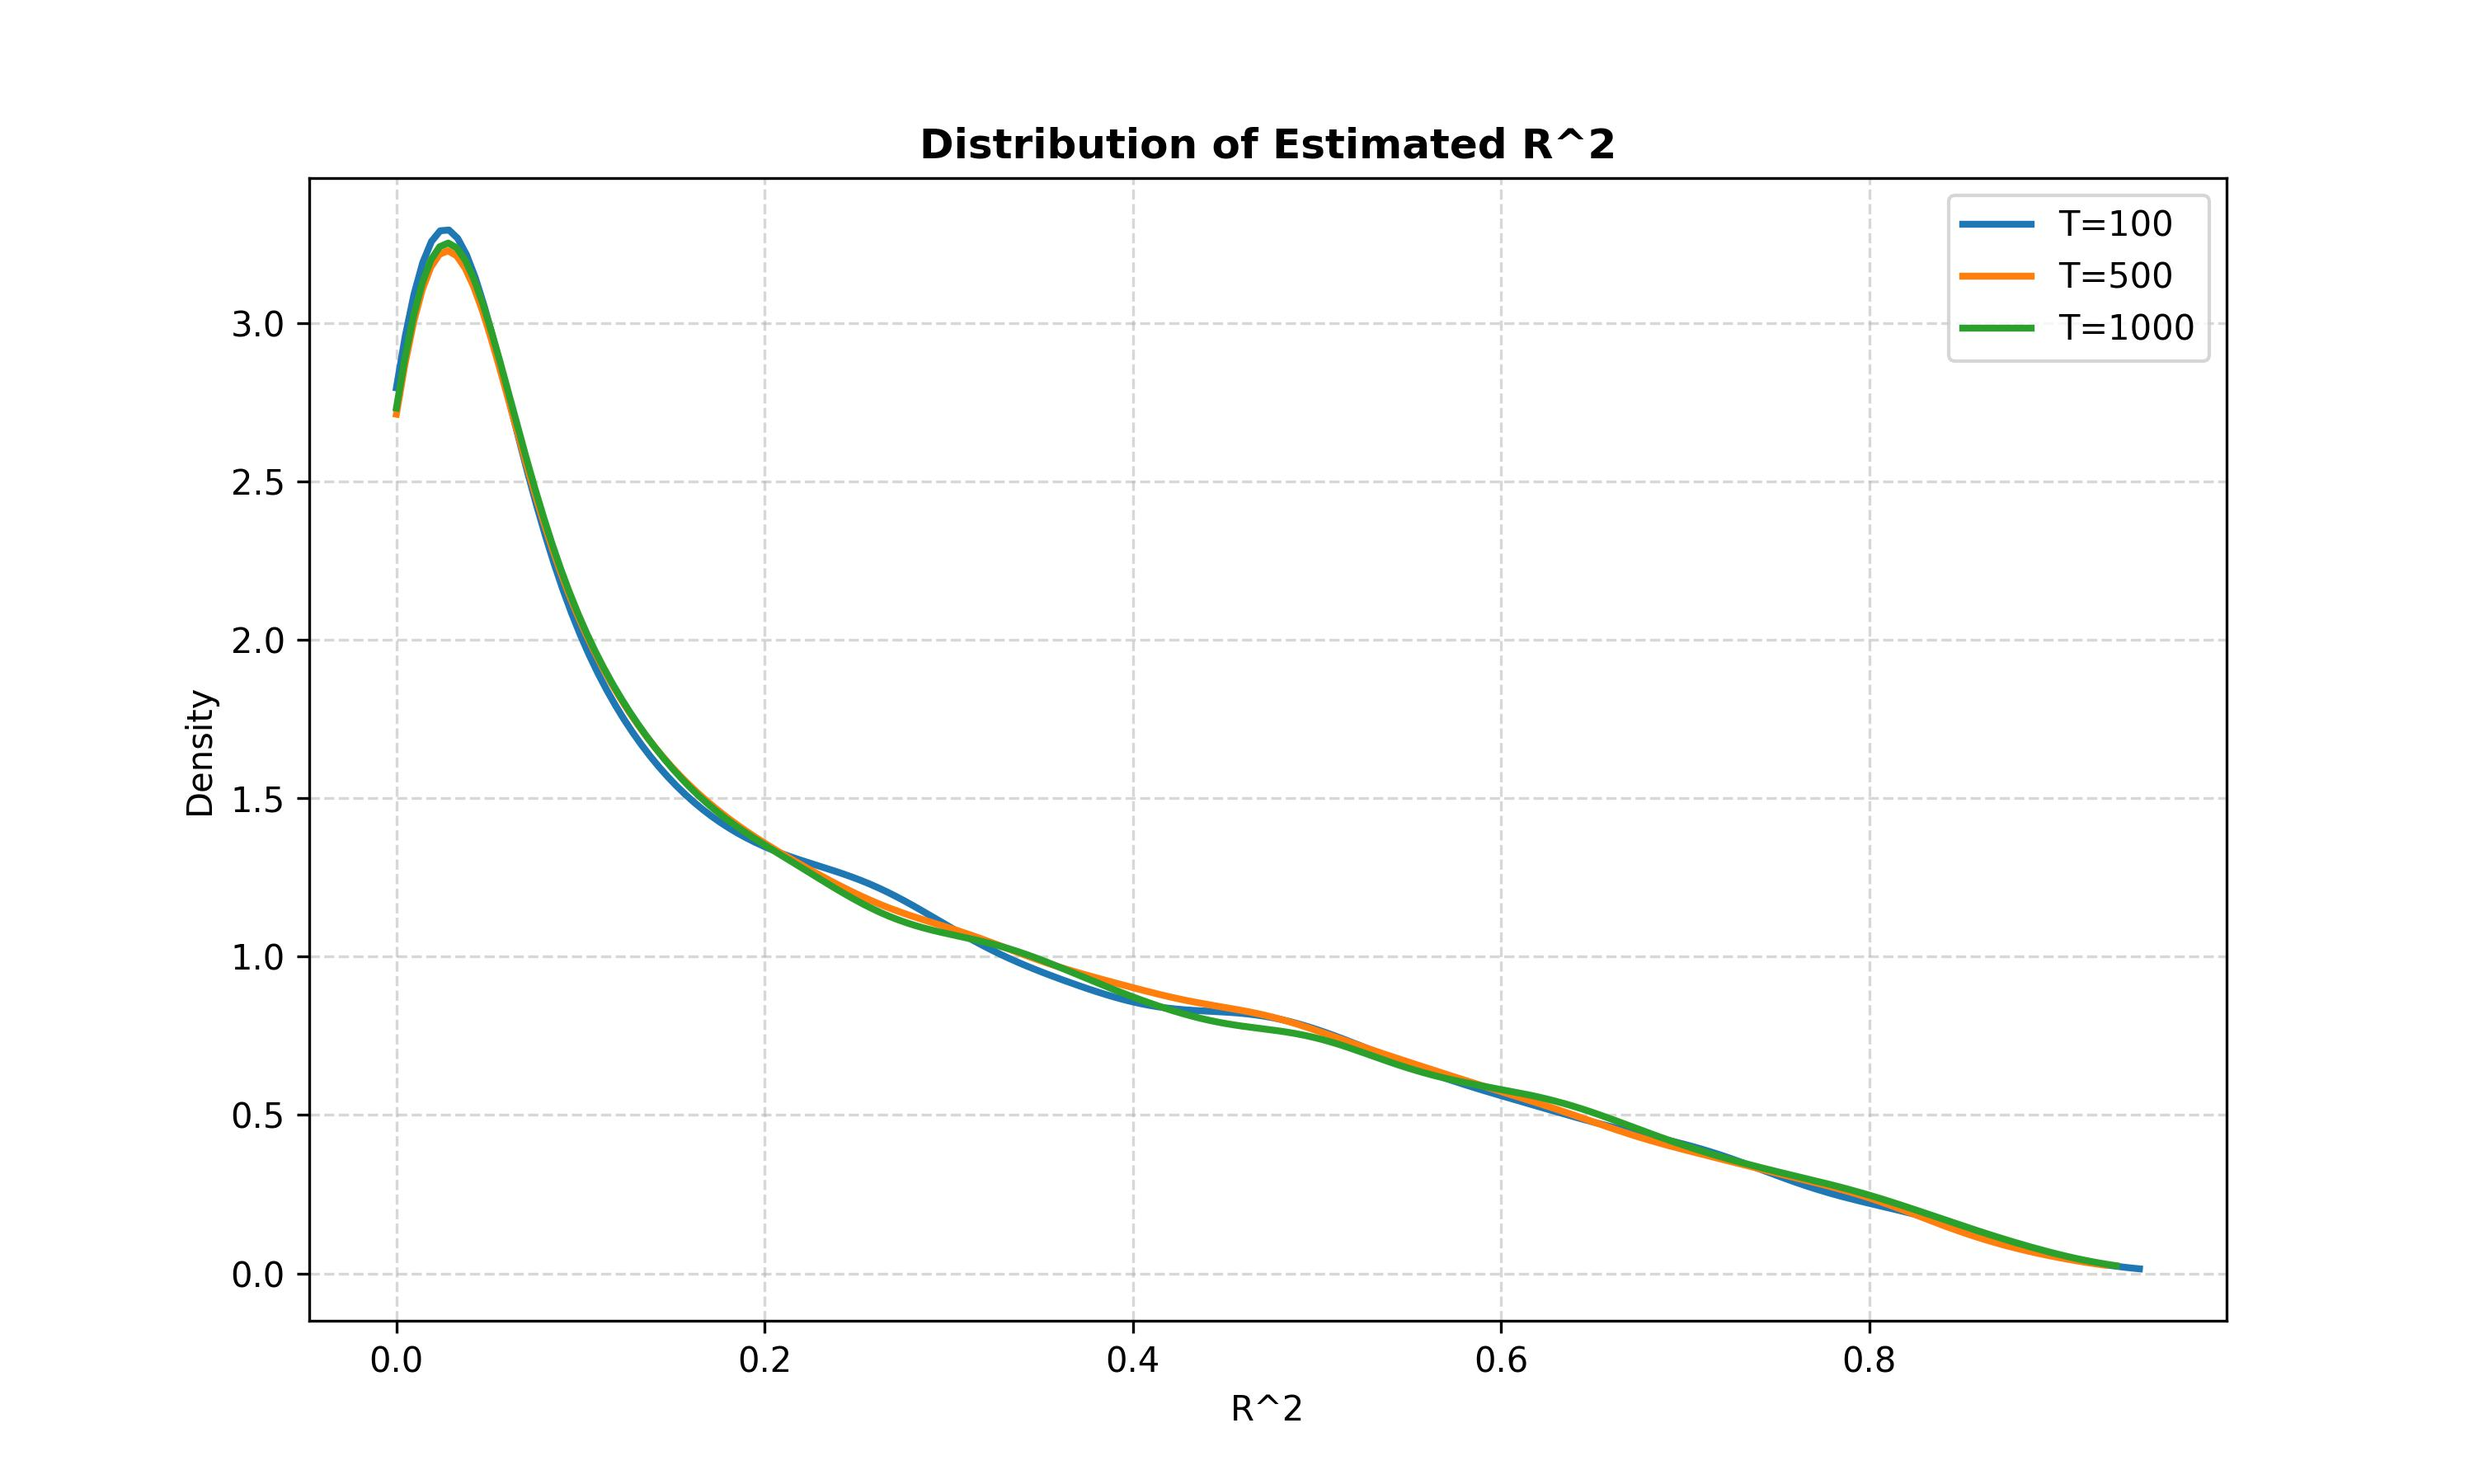
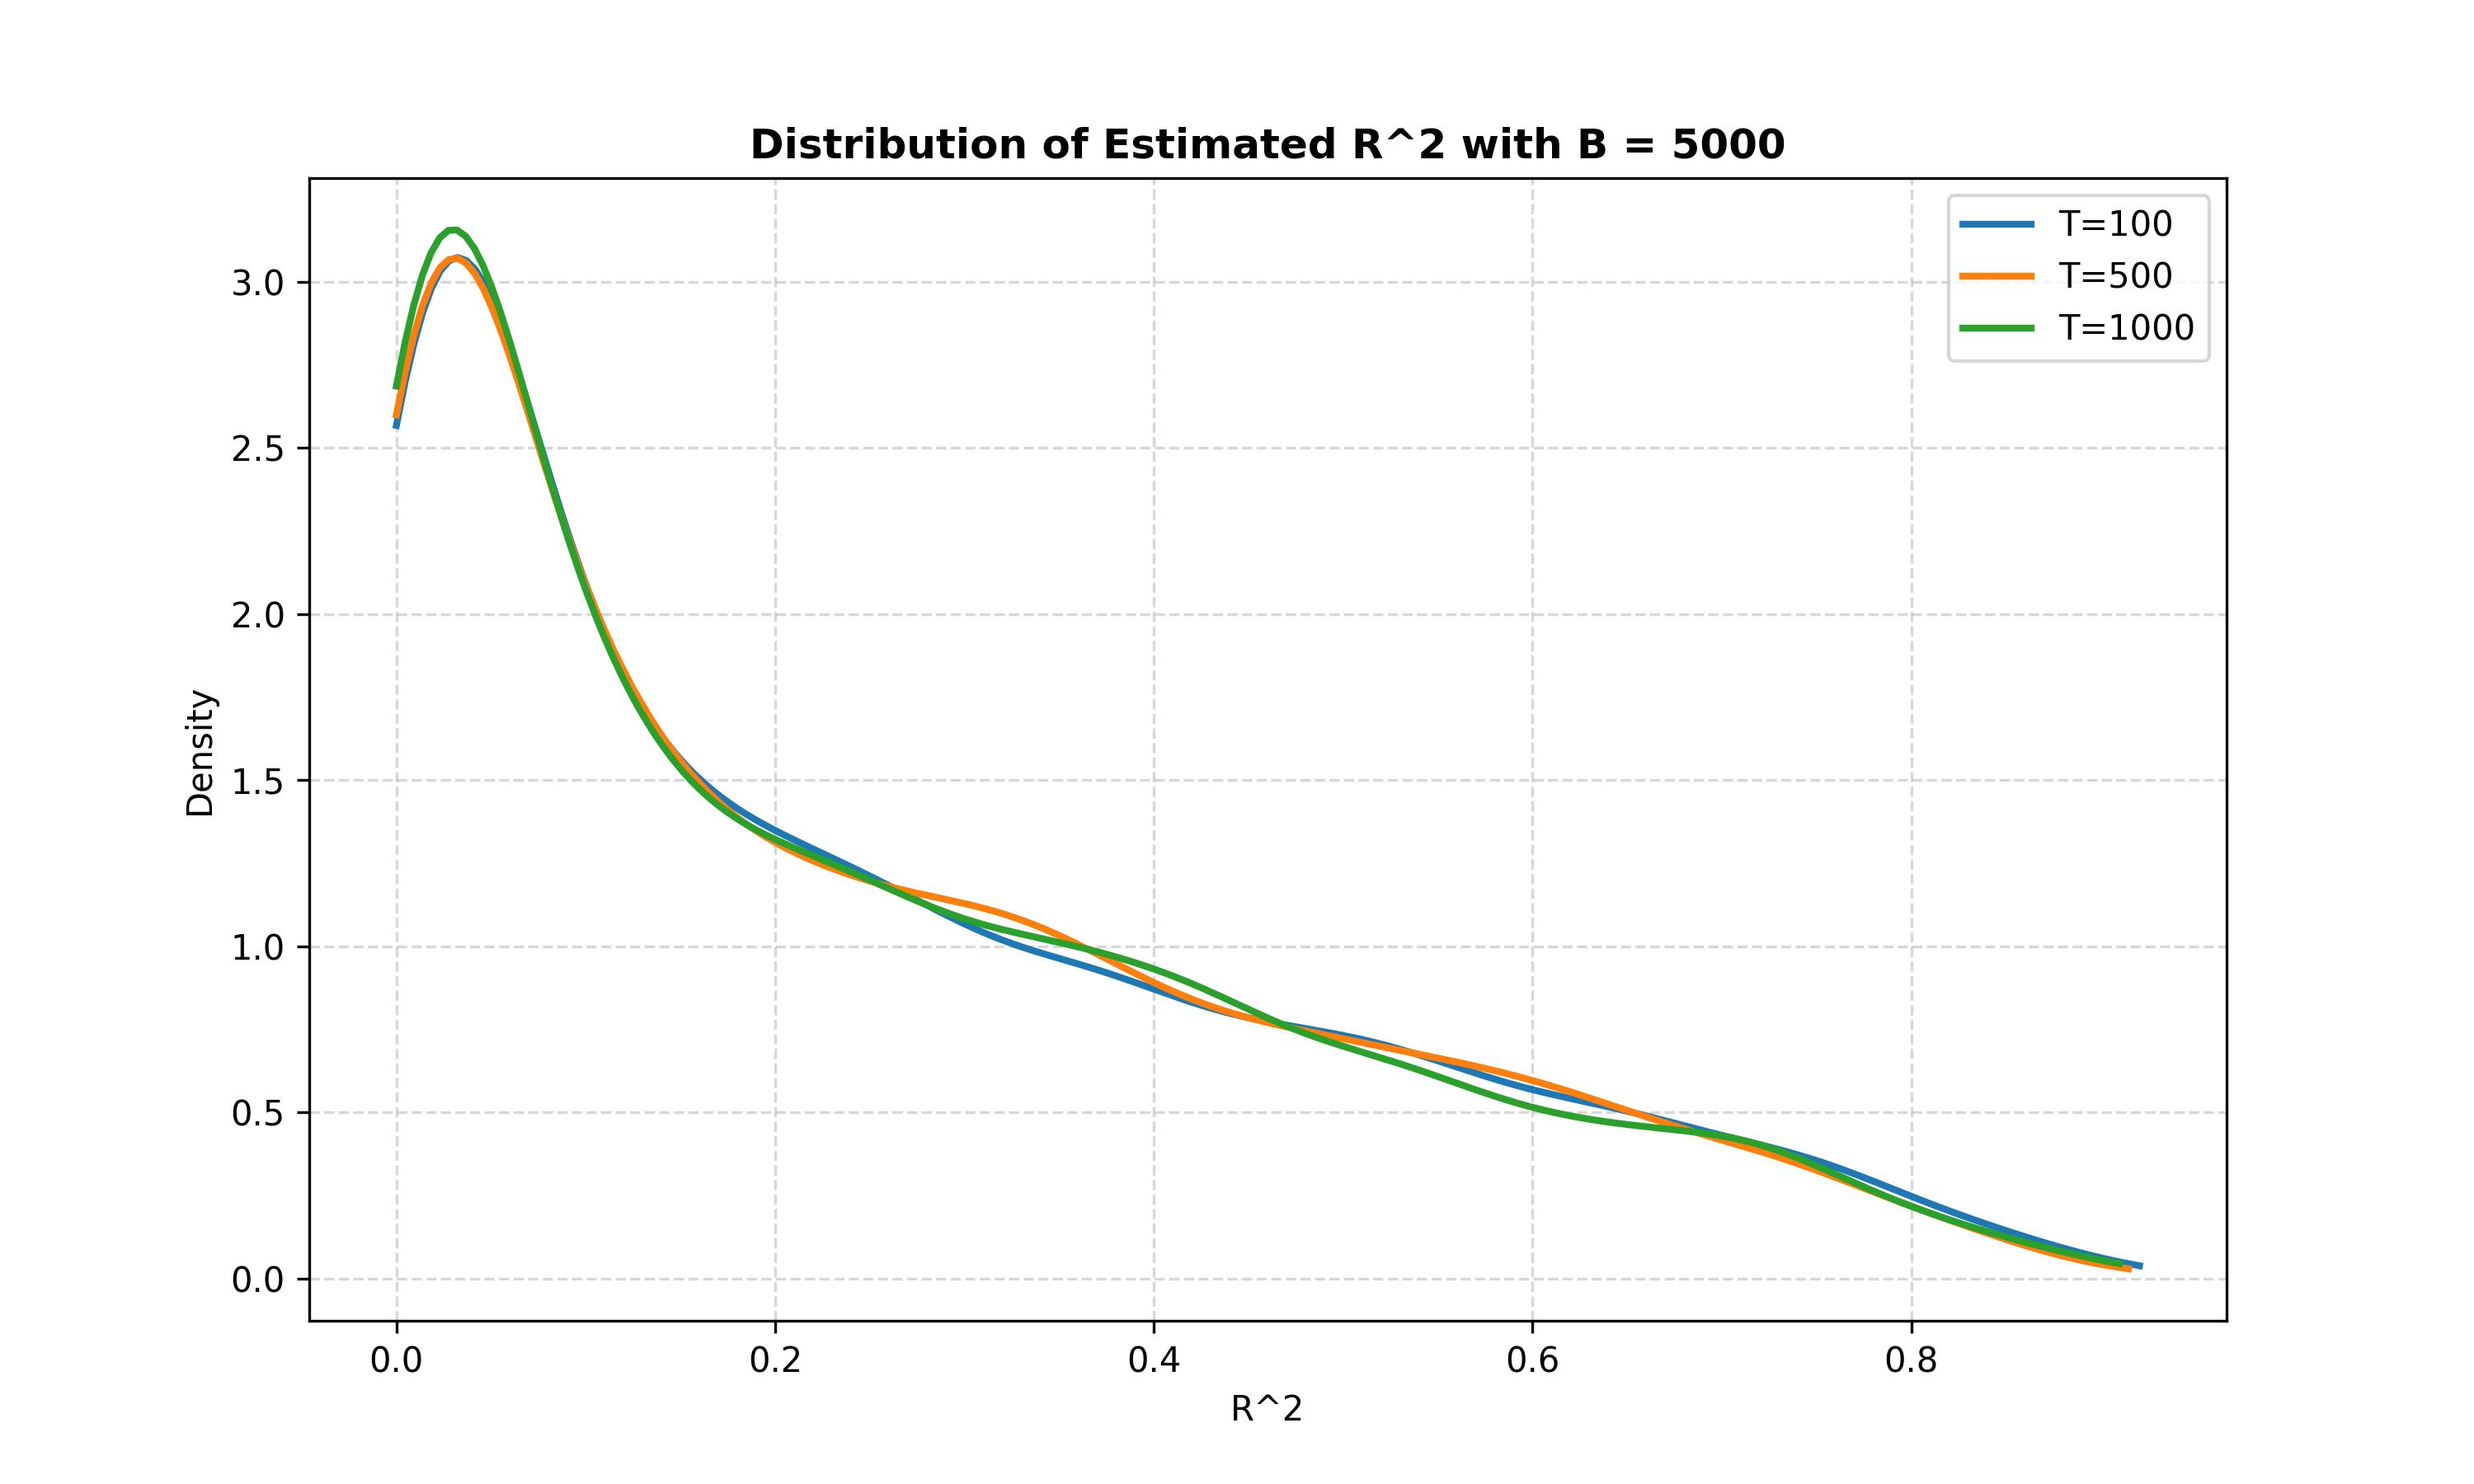
Add codes for Part I Question 2

diff --git a/3/TSDE_A3_Group19.py b/3/TSDE_A3_Group19.py
@@ -3,7 +3,13 @@ import pandas as pd
 import matplotlib.pyplot as plt
 from scipy.stats import norm
 from scipy.stats import gaussian_kde
-import math
+import datetime
+
+'''
+Part I: Spurious Regression and Unit Roots
+'''
+
+# Question 1
 
 # calculation for estimated beta by OLS regression
 def getEstimatedBeta(input_matrix_X, input_vector_y):
@@ -76,7 +82,6 @@ def getKernelDensity(input_variables):
     
     return x, density
     
-
 def distributionPlot(input_x_list, input_density_list, input_numberOfSimulations_list, input_xLabel, input_title, input_fileName):
     plt.figure(figsize=(10,6)) 
     
@@ -93,31 +98,21 @@ def distributionPlot(input_x_list, input_density_list, input_numberOfSimulations
     plt.savefig(f'../3/figures/{input_fileName}.jpeg', dpi=300)
     plt.show()
     
-t_list = [100, 500, 1000]
-numberOfSimulations_B = 10000
-
-beta_x_list = []
-beta_density_list = []
-t_x_list = [] 
-t_density_list = []
-rSquare_x_list = []
-rSquare_density_list = []
-
-for t in t_list:
+def monteCarlo(input_B, input_t):
     this_beta_list = []
     this_t_list = []
     this_RSquare_list = []
-
-    for i in range(0, numberOfSimulations_B):
-        v_t = np.random.normal(loc=0, scale=1, size=t+1)
-        w_t = np.random.normal(loc=0, scale=1, size=t+1)
+    
+    for i in range(0, input_B):
+        v_t = np.random.normal(loc=0, scale=1, size=input_t+1)
+        w_t = np.random.normal(loc=0, scale=1, size=input_t+1)
     
         this_y_list = []
         this_y_list.append(0)
         this_x_list = []
         this_x_list.append(0)
 
-        for j in range(1, t+1):
+        for j in range(1, time+1):
             y_t = this_y_list[j-1] + v_t[j]
             this_y_list.append(y_t)
             x_t = this_x_list[j-1] + w_t[j]
@@ -134,6 +129,21 @@ for t in t_list:
         this_beta_list.append(estimate_beta.iat[1, 0])
         this_t_list.append(t_statistic)
         this_RSquare_list.append(rSquare)
+    
+    return this_beta_list, this_t_list, this_RSquare_list
+    
+time_list = [100, 500, 1000]
+numberOfSimulations_B = 5000
+
+beta_x_list = []
+beta_density_list = []
+t_x_list = [] 
+t_density_list = []
+rSquare_x_list = []
+rSquare_density_list = []
+
+for time in time_list:
+    this_beta_list, this_t_list, this_RSquare_list = monteCarlo(numberOfSimulations_B, time)
         
     beta_x, beta_density = getKernelDensity(this_beta_list)
     beta_x_list.append(beta_x)
@@ -147,17 +157,80 @@ for t in t_list:
     rSquare_x_list.append(rSquare_x)
     rSquare_density_list.append(rSquare_density)
           
-graphTitle = 'Distribution of Estimated hat_betas'
+graphTitle = f'Distribution of Estimated β with B = {numberOfSimulations_B}'
 fileName = '1_MC_pdf_beta'
 xName = 'beta'
-distributionPlot(beta_x_list, beta_density_list, t_list, xName, graphTitle, fileName)
+distributionPlot(beta_x_list, beta_density_list, time_list, xName, graphTitle, fileName)
 
-graphTitle = 'Distribution of Estimated t-statistics'
+graphTitle = f'Distribution of Estimated t-statistics with B = {numberOfSimulations_B}'
 fileName = '1_MC_pdf_t'
 xName = 't'
-distributionPlot(t_x_list, t_density_list, t_list, xName, graphTitle, fileName)
+distributionPlot(t_x_list, t_density_list, time_list, xName, graphTitle, fileName)
 
-graphTitle = 'Distribution of Estimated R^2'
+graphTitle = f'Distribution of Estimated R^2 with B = {numberOfSimulations_B}'
 fileName = '1_MC_pdf_RSquare'
 xName = 'R^2'
-distributionPlot(rSquare_x_list, rSquare_density_list, t_list, xName, graphTitle, fileName)
+distributionPlot(rSquare_x_list, rSquare_density_list, time_list, xName, graphTitle, fileName)
+
+# Question 2
+
+def read_csv(filename) -> str:
+    output = pd.read_csv(filename, header = 0)
+    return output
+    
+part1Data = read_csv('../3/data_tsde_assignment_3_part_1.csv')
+part2Data = read_csv('../3/data_tsde_assignment_3_part_2.csv')
+
+aapl_stock = part1Data[['DATE','APPLE']]
+aapl_stock = aapl_stock.set_index('DATE')
+msft_stock = part1Data[['DATE','MICROSOFT']]
+msft_stock = msft_stock.set_index('DATE')
+
+def samplePlot(input_sample, input_x, input_title, input_fileName):
+    plt.figure(figsize=(10,6))    
+    plt.plot(input_x, input_sample, linewidth = 1, color = 'blue')
+    plt.title(input_title, fontweight='bold')
+    plt.xlabel('Time')
+    plt.ylabel('Daily Stock Price')
+    plt.savefig(f'../3/figures/{input_fileName}.jpeg', dpi=300)
+    plt.show()
+
+graphTitle = 'APPLE stock time series'
+fileName = '2_aapl'
+samplePlot(aapl_stock, part1Data['DATE'], graphTitle, fileName)
+
+graphTitle = 'MICROSOFT stock time series'
+fileName = '2_msft'
+samplePlot(msft_stock, part1Data['DATE'], graphTitle, fileName)
+
+def sacf(input_data, lag, input_title, input_fileName):
+    result = []
+    
+    for i in range(1, lag+1):
+        x = pd.Series(input_data)
+        result.append(x.autocorr(lag = i))
+    
+    lags = np.arange(1,lag+1,1)
+    
+    plt.figure(figsize=(10,6))
+    plt.bar(lags, result, color='blue', edgecolor='black')
+    plt.axhline(0, color='black', linestyle='--', linewidth=1)
+    plt.title(input_title, fontweight='bold')
+    plt.xlabel('Lag')
+    plt.ylabel('ACF')
+    plt.savefig(f'../3/figures/{input_fileName}.jpeg', dpi=300)
+    plt.show()
+    
+    return result
+
+input_lags = 12
+
+graphTitle = 'Sample ACF of AAPL daily stock prices'
+fileName = '2_sacf_aapl'
+aapl_sacf = sacf(aapl_stock['APPLE'], input_lags, graphTitle, fileName)
+
+graphTitle = 'Sample ACF of MSFT daily stock prices'
+fileName = '2_sacf_msft'
+aapl_sacf = sacf(msft_stock['MICROSOFT'], input_lags, graphTitle, fileName)
+
+# Question 3
